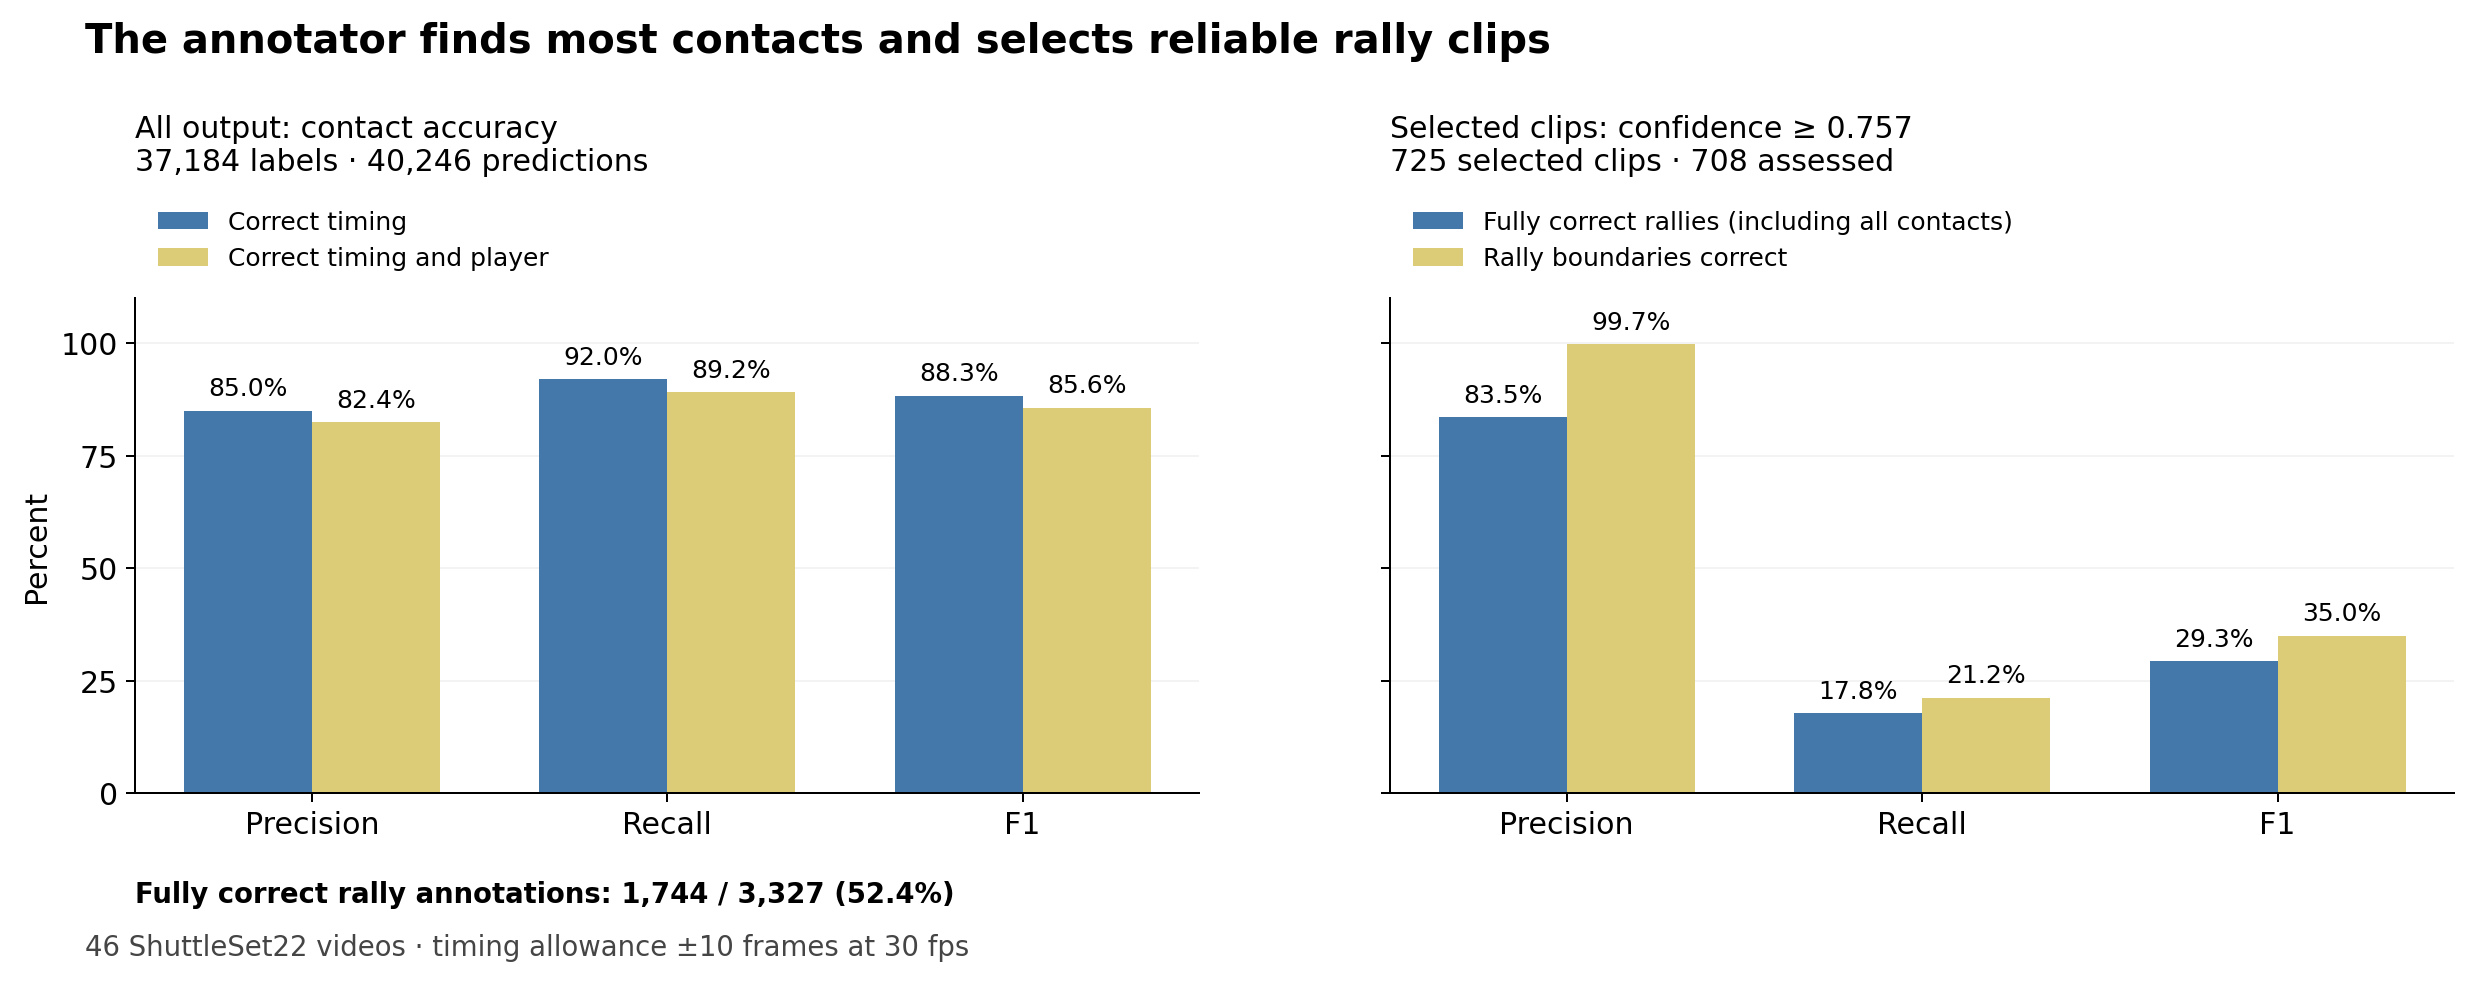
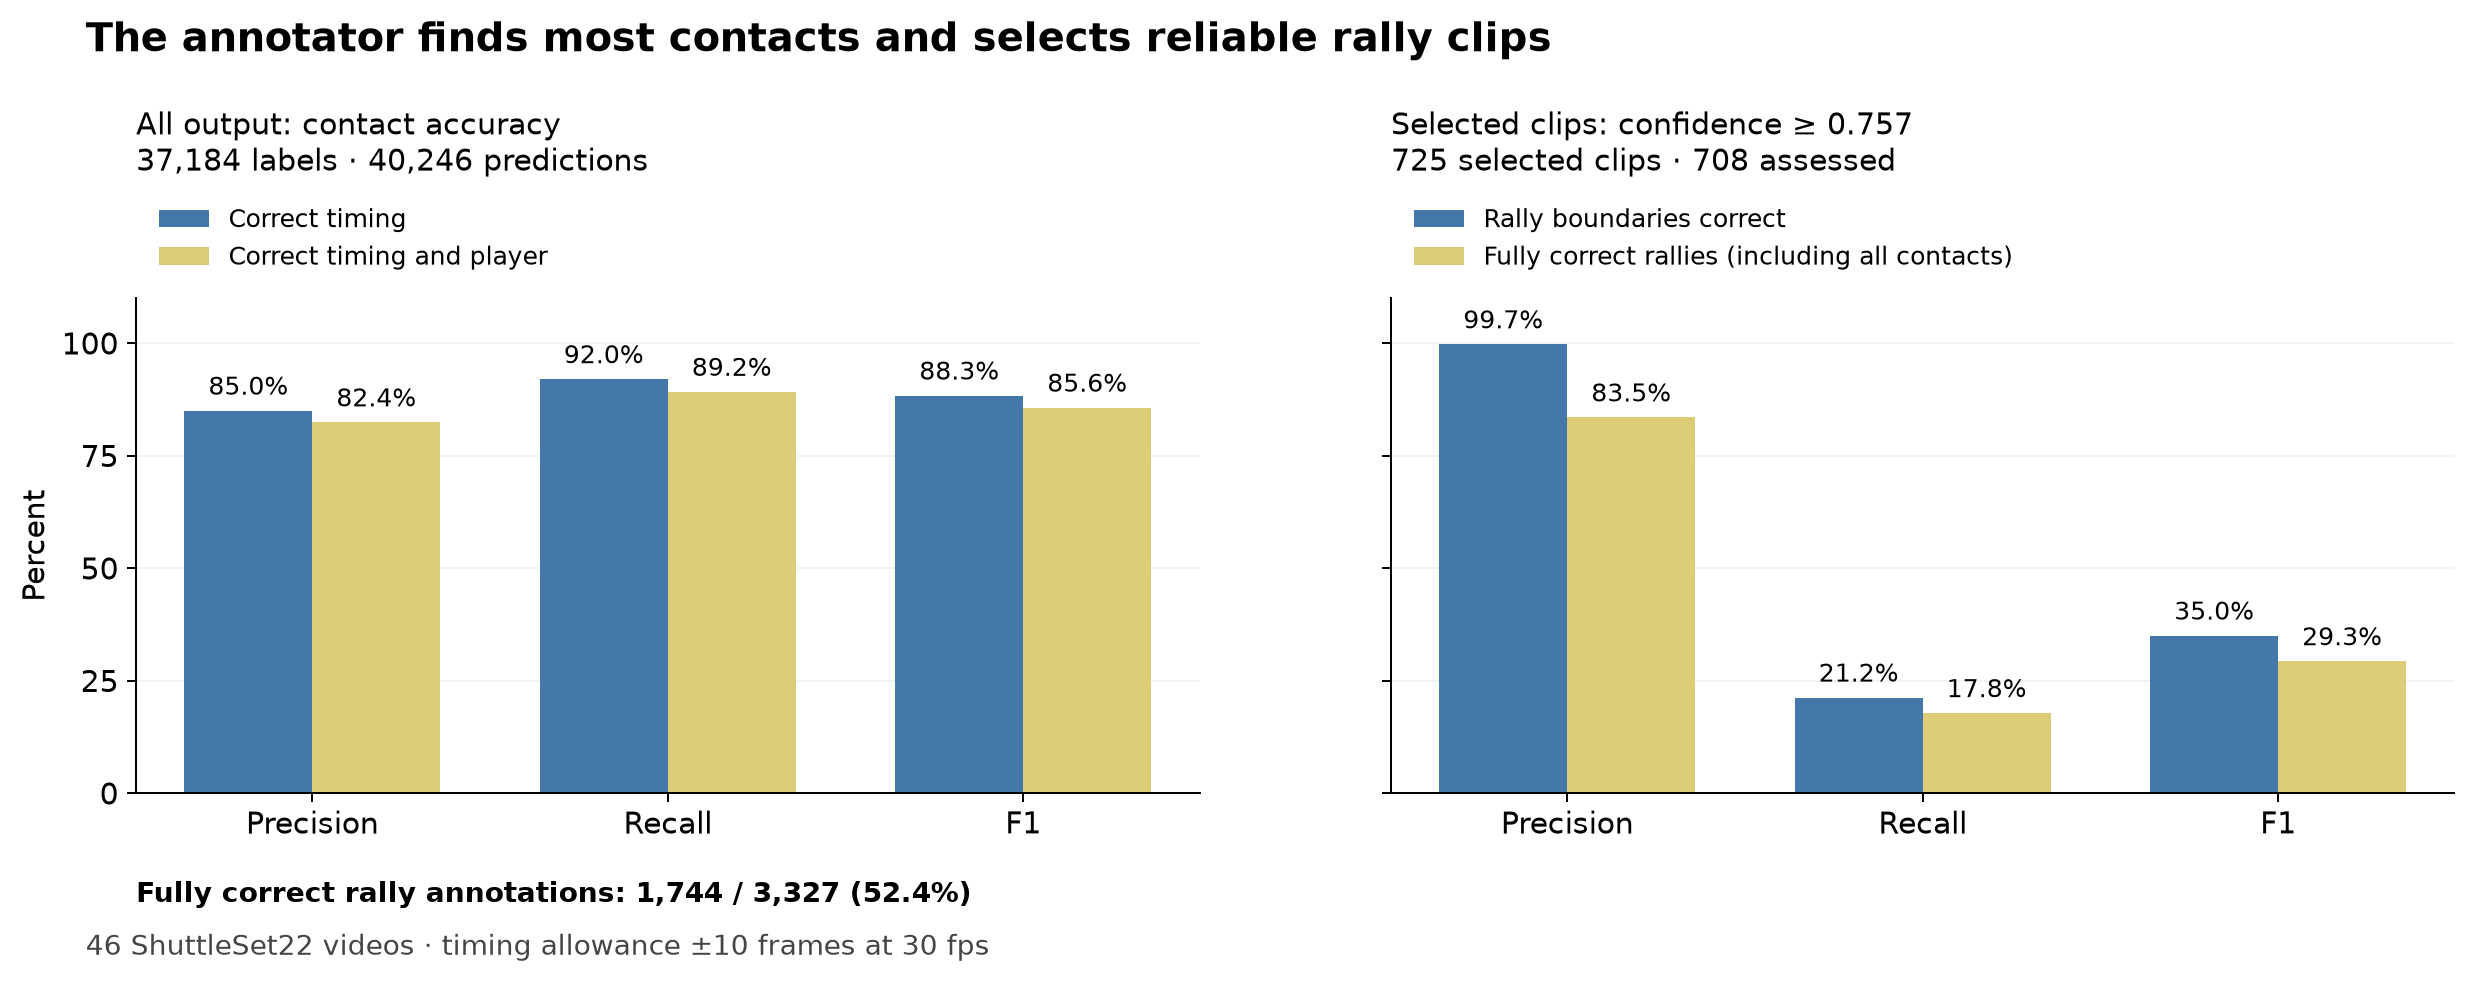
updated annotator rallies plot

diff --git a/experiments/annotator/annotator_closeout_new_courts/scripts/plot_performance_overview_rallies.py b/experiments/annotator/annotator_closeout_new_courts/scripts/plot_performance_overview_rallies.py
@@ -1,0 +1,106 @@
+"""Draw the performance overview with a whole-rally panel for all output.
+
+The middle panel shows how many labelled rallies the annotator gets fully right
+without confidence selection. It replaces the bold footer line in
+performance_overview.png, so all-output and selected-clip rally scores sit side by side.
+"""
+
+from __future__ import annotations
+
+import matplotlib.pyplot as plt
+import numpy as np
+import pandas as pd
+from plot_readme_summary import BLUE, RESULTS, SAND, as_bool, current_metrics, f1, save
+
+# Published count, used when results/ is absent, as in plot_readme_summary.SNAPSHOT.
+EXACT_SEQUENCE_RALLIES = 1767
+
+
+def exact_sequence_rallies() -> int:
+    """Count rallies whose contacts all match, ignoring player assignment."""
+    path = RESULTS / "rallies.csv.gz"
+    if not path.exists():
+        return EXACT_SEQUENCE_RALLIES
+    rallies = pd.read_csv(path, dtype={"video": str})
+    rallies = rallies[(rallies.split == "test") & (rallies.tolerance_base30 == 10)]
+    count = int(as_bool(rallies.exact_sequence).sum())
+    assert count == EXACT_SEQUENCE_RALLIES, count
+    return count
+
+
+def style_panel(ax: plt.Axes, title: str, population: str) -> None:
+    ax.set_title(f"{title}\n{population}", loc="left", fontsize=12, pad=51)
+    ax.set_ylim(0, 110)
+    ax.set_yticks([0, 25, 50, 75, 100])
+    ax.set_axisbelow(True)
+    ax.grid(axis="y", alpha=0.15)
+    ax.legend(frameon=False, loc="lower left", bbox_to_anchor=(0, 1.01), fontsize=10)
+
+
+def draw_metric_panel(ax: plt.Axes, precision_total: int, recall_total: int,
+                      series: list[tuple[str, int, str]]) -> None:
+    positions = np.arange(3)
+    width = 0.36
+    for series_index, (label, count, colour) in enumerate(series):
+        precision = 100 * count / precision_total
+        recall = 100 * count / recall_total
+        values = [precision, recall, f1(precision, recall)]
+        offset = (series_index - 0.5) * width
+        bars = ax.bar(positions + offset, values, width, color=colour, label=label)
+        ax.bar_label(bars, labels=[f"{value:.1f}%" for value in values], padding=4, fontsize=10)
+    ax.set_xticks(positions, ["Precision", "Recall", "F1"])
+
+
+def draw_rally_panel(ax: plt.Axes, metrics: dict[str, int], exact_sequence: int) -> None:
+    width = 0.36
+    series = [
+        ("Exact contact sequence", exact_sequence, BLUE),
+        ("Exact sequence and correct players", metrics["fully_correct_rallies"], SAND),
+    ]
+    for series_index, (label, count, colour) in enumerate(series):
+        share = 100 * count / metrics["labelled_rallies"]
+        offset = (series_index - 0.5) * width
+        bars = ax.bar([offset], [share], width, color=colour, label=label)
+        ax.bar_label(bars, labels=[f"{share:.1f}%"], padding=4, fontsize=10)
+    ax.set_xticks([0], ["Labelled rallies"])
+    # Matches the bar scale of the three-group panels, given their width ratio.
+    ax.set_xlim(-0.75, 0.75)
+
+
+def plot_performance_overview_rallies(metrics: dict[str, int], exact_sequence: int) -> None:
+    # The empty third column keeps the selected-clip panel apart from the two all-output panels.
+    fig, (contact_ax, rally_ax, spacer_ax, selected_ax) = plt.subplots(
+        1, 4, figsize=(17, 5.5), sharey=True, gridspec_kw={"width_ratios": [3.1, 1.5, 0.25, 3.1]})
+    fig.subplots_adjust(left=0.05, right=0.98, bottom=0.17, top=0.70, wspace=0.06)
+    spacer_ax.axis("off")
+    fig.suptitle("The annotator finds most contacts and selects reliable rally clips",
+                 x=0.04, ha="left", fontsize=16, weight="bold")
+
+    draw_metric_panel(contact_ax, metrics["predicted_contacts"], metrics["labelled_contacts"], [
+        ("Correct timing", metrics["matched_contacts"], BLUE),
+        ("Correct timing and player", metrics["correct_side_contacts"], SAND),
+    ])
+    style_panel(contact_ax, "All output: contact accuracy",
+                f'{metrics["labelled_contacts"]:,} labels · {metrics["predicted_contacts"]:,} predictions')
+
+    draw_rally_panel(rally_ax, metrics, exact_sequence)
+    style_panel(rally_ax, "All output: whole rallies", f'{metrics["labelled_rallies"]:,} labelled rallies')
+
+    draw_metric_panel(selected_ax, metrics["selected_judgeable"], metrics["labelled_rallies"], [
+        ("Rally boundaries correct", metrics["selected_whole_rally"], BLUE),
+        ("Fully correct rallies (including all contacts)", metrics["selected_exact"], SAND),
+    ])
+    style_panel(selected_ax, "Selected clips: confidence ≥ 0.757",
+                f'{metrics["selected"]} selected clips · {metrics["selected_judgeable"]} assessed')
+
+    contact_ax.set_ylabel("Percent")
+    save(fig, "performance_overview_rallies",
+         "46 ShuttleSet22 videos · timing allowance ±10 frames at 30 fps")
+
+
+def main() -> None:
+    plot_performance_overview_rallies(current_metrics(), exact_sequence_rallies())
+
+
+if __name__ == "__main__":
+    main()

diff --git a/experiments/annotator/annotator_closeout_new_courts/scripts/plot_readme_summary.py b/experiments/annotator/annotator_closeout_new_courts/scripts/plot_readme_summary.py
@@ -159,8 +159,8 @@ def plot_performance_overview(metrics: dict[str, int]) -> None:
             metrics["selected_judgeable"],
             metrics["labelled_rallies"],
             [
-                ("Fully correct rallies (including all contacts)", metrics["selected_exact"], BLUE),
-                ("Rally boundaries correct", metrics["selected_whole_rally"], SAND),
+                ("Rally boundaries correct", metrics["selected_whole_rally"], BLUE),
+                ("Fully correct rallies (including all contacts)", metrics["selected_exact"], SAND),
             ],
         ),
     ]
